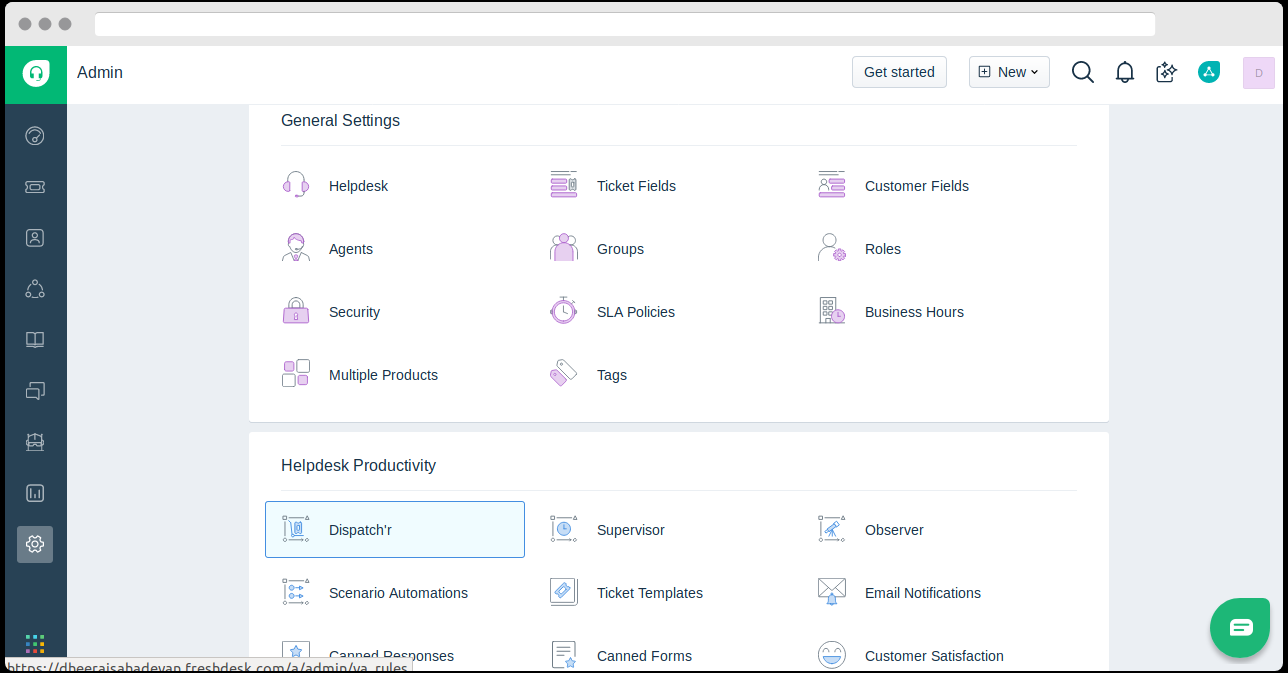
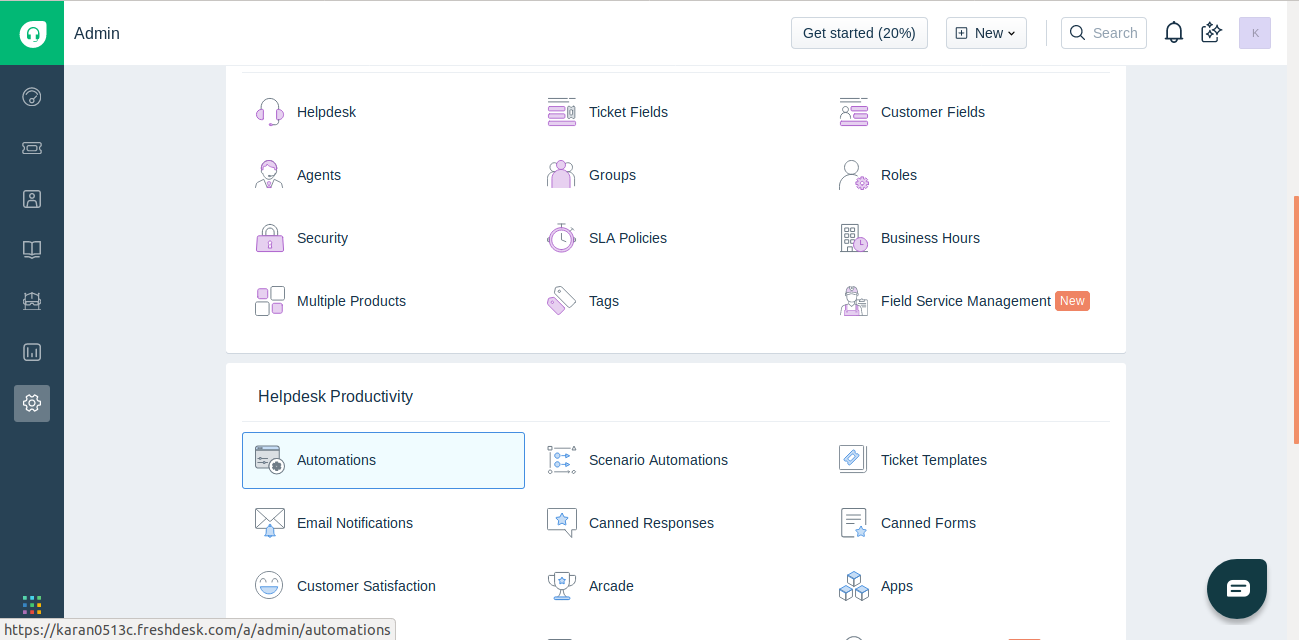
Deploy website
Deploy website version based on 7149f3682893e21e04ef92b0042e76a921a3f369

diff --git a/docs/Freshdesk.html b/docs/Freshdesk.html
@@ -69,41 +69,49 @@
 </ol>
 <h2><a class="anchor" aria-hidden="true" id="in-freshdesk"></a><a href="#in-freshdesk" aria-hidden="true" class="hash-link"><svg class="hash-link-icon" aria-hidden="true" height="16" version="1.1" viewBox="0 0 16 16" width="16"><path fill-rule="evenodd" d="M4 9h1v1H4c-1.5 0-3-1.69-3-3.5S2.55 3 4 3h4c1.45 0 3 1.69 3 3.5 0 1.41-.91 2.72-2 3.25V8.59c.58-.45 1-1.27 1-2.09C10 5.22 8.98 4 8 4H4c-.98 0-2 1.22-2 2.5S3 9 4 9zm9-3h-1v1h1c1 0 2 1.22 2 2.5S13.98 12 13 12H9c-.98 0-2-1.22-2-2.5 0-.83.42-1.64 1-2.09V6.25c-1.09.53-2 1.84-2 3.25C6 11.31 7.55 13 9 13h4c1.45 0 3-1.69 3-3.5S14.5 6 13 6z"></path></svg></a>In Freshdesk:</h2>
 <ol start="5">
-<li>Log into Freshdesk. Click on the &quot;Admin&quot; button and select &quot;Dispatch’r&quot; under &quot;Helpdesk Productivity Settings&quot;.</li>
+<li>Log into Freshdesk. Click on the &quot;Admin&quot; button and select &quot;Automations&quot; under &quot;Helpdesk Productivity Settings&quot;.</li>
 </ol>
 <p><img src="/img/Integrations/Freshdesk/1.png" alt=""></p>
 <ol start="6">
-<li><p>Select &quot;New Rule&quot; and pick &quot;Rule Name&quot; and &quot;Description&quot;.</p></li>
-<li><p>Set Conditions as:</p>
-<p><strong>Type Is Incident</strong></p></li>
+<li>Click on the &quot;Create the first rule&quot; button.</li>
 </ol>
 <p><img src="/img/Integrations/Freshdesk/2.png" alt=""></p>
+<ol start="7">
+<li><p>Select &quot;New Rule&quot; and pick &quot;Rule Name&quot; and &quot;Description&quot;. Set Conditions as:</p>
+<p><strong>Type Is Incident</strong></p></li>
+</ol>
+<p><img src="/img/Integrations/Freshdesk/3.png" alt=""></p>
 <ol start="8">
 <li><p>Select &quot;Trigger Webhook&quot; from the Actions&quot;  dropdown, and set &quot;Request Type&quot; to &quot;POST&quot;.</p>
-<p>Under the &quot;Callback URL&quot;, paste the webhook url you copied earlier.</p>
+<p>Under the &quot;URL&quot;, paste the webhook url you copied earlier.</p>
 <p>Set the &quot;Encoding&quot; as &quot;JSON&quot; and content as &quot;Simple&quot;.</p>
 <p>Under &quot;Content&quot;, select the following fields- Ticket ID, Subject, Description, Status.</p></li>
 </ol>
 <p>This is shown in the screenshot below:</p>
-<p><img src="/img/Integrations/Freshdesk/3.png" alt=""></p>
+<p><img src="/img/Integrations/Freshdesk/4.png" alt=""></p>
 <ol start="9">
 <li><p>Save.</p></li>
-<li><p>Click on the &quot;Admin&quot; button on and select &quot;Observer&quot; under &quot;Helpdesk Productivity Settings&quot;.</p></li>
-</ol>
-<p><img src="/img/Integrations/Freshdesk/4.png" alt=""></p>
-<ol start="11">
-<li><p>Select &quot;New Rule&quot; and pick a &quot;Rule Name&quot; and &quot;Description&quot;.</p>
-<p>Set &quot;Action Performed By&quot; to &quot;Agent&quot; and an &quot;Event&quot;. For example, here we have picked:&quot;Status is Changed&quot; from &quot;Any Status&quot; to &quot;Any Status&quot;.</p></li>
+<li><p>From the same window, move to &quot;Ticket Updates&quot; sections and click on &quot;New Rule&quot; button.</p></li>
 </ol>
 <p><img src="/img/Integrations/Freshdesk/5.png" alt=""></p>
+<ol start="11">
+<li><p>Select &quot;New Rule&quot; and pick a &quot;Rule Name&quot; and &quot;Description&quot;.</p>
+<p>Set &quot;Action Performed By&quot; to &quot;Agent&quot; and an &quot;Event&quot;. For example, here we have picked:&quot;Status is Changed&quot; from &quot;Any Status&quot; to &quot;Any Status&quot; and so on depending upon the requirements.</p></li>
+</ol>
+<p><img src="/img/Integrations/Freshdesk/6.png" alt=""></p>
+<p><img src="/img/Integrations/Freshdesk/7.png" alt=""></p>
+<ol start="12">
+<li>In the &quot;On tickets with these properties&quot; section, set condition as &quot;Type Is&quot; and &quot;Incident&quot;.</li>
+</ol>
+<p><img src="/img/Integrations/Freshdesk/8.png" alt=""></p>
 <ol start="12">
 <li><p>Select &quot;Trigger Webhook&quot; from the &quot;Actions&quot; dropdown and set the &quot;Request Type&quot; to &quot;POST&quot;.</p>
-<p>Under the callback URL,paste the webhook link you copied earlier.</p>
+<p>In the URL textbox, paste the webhook link you copied earlier.</p>
 <p>Set the Encoding to &quot;JSON&quot; and Content to &quot;Simple&quot;.</p>
 <p>Under Content, Select the following fields- Ticket ID, Subject, Description, Status.</p></li>
 </ol>
 <p>This is shown in the screenshot below:</p>
-<p><img src="/img/Integrations/Freshdesk/6.png" alt=""></p>
+<p><img src="/img/Integrations/Freshdesk/9.png" alt=""></p>
 <ol start="13">
 <li>Save.</li>
 </ol>

diff --git a/docs/Freshdesk/index.html b/docs/Freshdesk/index.html
@@ -69,41 +69,49 @@
 </ol>
 <h2><a class="anchor" aria-hidden="true" id="in-freshdesk"></a><a href="#in-freshdesk" aria-hidden="true" class="hash-link"><svg class="hash-link-icon" aria-hidden="true" height="16" version="1.1" viewBox="0 0 16 16" width="16"><path fill-rule="evenodd" d="M4 9h1v1H4c-1.5 0-3-1.69-3-3.5S2.55 3 4 3h4c1.45 0 3 1.69 3 3.5 0 1.41-.91 2.72-2 3.25V8.59c.58-.45 1-1.27 1-2.09C10 5.22 8.98 4 8 4H4c-.98 0-2 1.22-2 2.5S3 9 4 9zm9-3h-1v1h1c1 0 2 1.22 2 2.5S13.98 12 13 12H9c-.98 0-2-1.22-2-2.5 0-.83.42-1.64 1-2.09V6.25c-1.09.53-2 1.84-2 3.25C6 11.31 7.55 13 9 13h4c1.45 0 3-1.69 3-3.5S14.5 6 13 6z"></path></svg></a>In Freshdesk:</h2>
 <ol start="5">
-<li>Log into Freshdesk. Click on the &quot;Admin&quot; button and select &quot;Dispatch’r&quot; under &quot;Helpdesk Productivity Settings&quot;.</li>
+<li>Log into Freshdesk. Click on the &quot;Admin&quot; button and select &quot;Automations&quot; under &quot;Helpdesk Productivity Settings&quot;.</li>
 </ol>
 <p><img src="/img/Integrations/Freshdesk/1.png" alt=""></p>
 <ol start="6">
-<li><p>Select &quot;New Rule&quot; and pick &quot;Rule Name&quot; and &quot;Description&quot;.</p></li>
-<li><p>Set Conditions as:</p>
-<p><strong>Type Is Incident</strong></p></li>
+<li>Click on the &quot;Create the first rule&quot; button.</li>
 </ol>
 <p><img src="/img/Integrations/Freshdesk/2.png" alt=""></p>
+<ol start="7">
+<li><p>Select &quot;New Rule&quot; and pick &quot;Rule Name&quot; and &quot;Description&quot;. Set Conditions as:</p>
+<p><strong>Type Is Incident</strong></p></li>
+</ol>
+<p><img src="/img/Integrations/Freshdesk/3.png" alt=""></p>
 <ol start="8">
 <li><p>Select &quot;Trigger Webhook&quot; from the Actions&quot;  dropdown, and set &quot;Request Type&quot; to &quot;POST&quot;.</p>
-<p>Under the &quot;Callback URL&quot;, paste the webhook url you copied earlier.</p>
+<p>Under the &quot;URL&quot;, paste the webhook url you copied earlier.</p>
 <p>Set the &quot;Encoding&quot; as &quot;JSON&quot; and content as &quot;Simple&quot;.</p>
 <p>Under &quot;Content&quot;, select the following fields- Ticket ID, Subject, Description, Status.</p></li>
 </ol>
 <p>This is shown in the screenshot below:</p>
-<p><img src="/img/Integrations/Freshdesk/3.png" alt=""></p>
+<p><img src="/img/Integrations/Freshdesk/4.png" alt=""></p>
 <ol start="9">
 <li><p>Save.</p></li>
-<li><p>Click on the &quot;Admin&quot; button on and select &quot;Observer&quot; under &quot;Helpdesk Productivity Settings&quot;.</p></li>
-</ol>
-<p><img src="/img/Integrations/Freshdesk/4.png" alt=""></p>
-<ol start="11">
-<li><p>Select &quot;New Rule&quot; and pick a &quot;Rule Name&quot; and &quot;Description&quot;.</p>
-<p>Set &quot;Action Performed By&quot; to &quot;Agent&quot; and an &quot;Event&quot;. For example, here we have picked:&quot;Status is Changed&quot; from &quot;Any Status&quot; to &quot;Any Status&quot;.</p></li>
+<li><p>From the same window, move to &quot;Ticket Updates&quot; sections and click on &quot;New Rule&quot; button.</p></li>
 </ol>
 <p><img src="/img/Integrations/Freshdesk/5.png" alt=""></p>
+<ol start="11">
+<li><p>Select &quot;New Rule&quot; and pick a &quot;Rule Name&quot; and &quot;Description&quot;.</p>
+<p>Set &quot;Action Performed By&quot; to &quot;Agent&quot; and an &quot;Event&quot;. For example, here we have picked:&quot;Status is Changed&quot; from &quot;Any Status&quot; to &quot;Any Status&quot; and so on depending upon the requirements.</p></li>
+</ol>
+<p><img src="/img/Integrations/Freshdesk/6.png" alt=""></p>
+<p><img src="/img/Integrations/Freshdesk/7.png" alt=""></p>
+<ol start="12">
+<li>In the &quot;On tickets with these properties&quot; section, set condition as &quot;Type Is&quot; and &quot;Incident&quot;.</li>
+</ol>
+<p><img src="/img/Integrations/Freshdesk/8.png" alt=""></p>
 <ol start="12">
 <li><p>Select &quot;Trigger Webhook&quot; from the &quot;Actions&quot; dropdown and set the &quot;Request Type&quot; to &quot;POST&quot;.</p>
-<p>Under the callback URL,paste the webhook link you copied earlier.</p>
+<p>In the URL textbox, paste the webhook link you copied earlier.</p>
 <p>Set the Encoding to &quot;JSON&quot; and Content to &quot;Simple&quot;.</p>
 <p>Under Content, Select the following fields- Ticket ID, Subject, Description, Status.</p></li>
 </ol>
 <p>This is shown in the screenshot below:</p>
-<p><img src="/img/Integrations/Freshdesk/6.png" alt=""></p>
+<p><img src="/img/Integrations/Freshdesk/9.png" alt=""></p>
 <ol start="13">
 <li>Save.</li>
 </ol>
